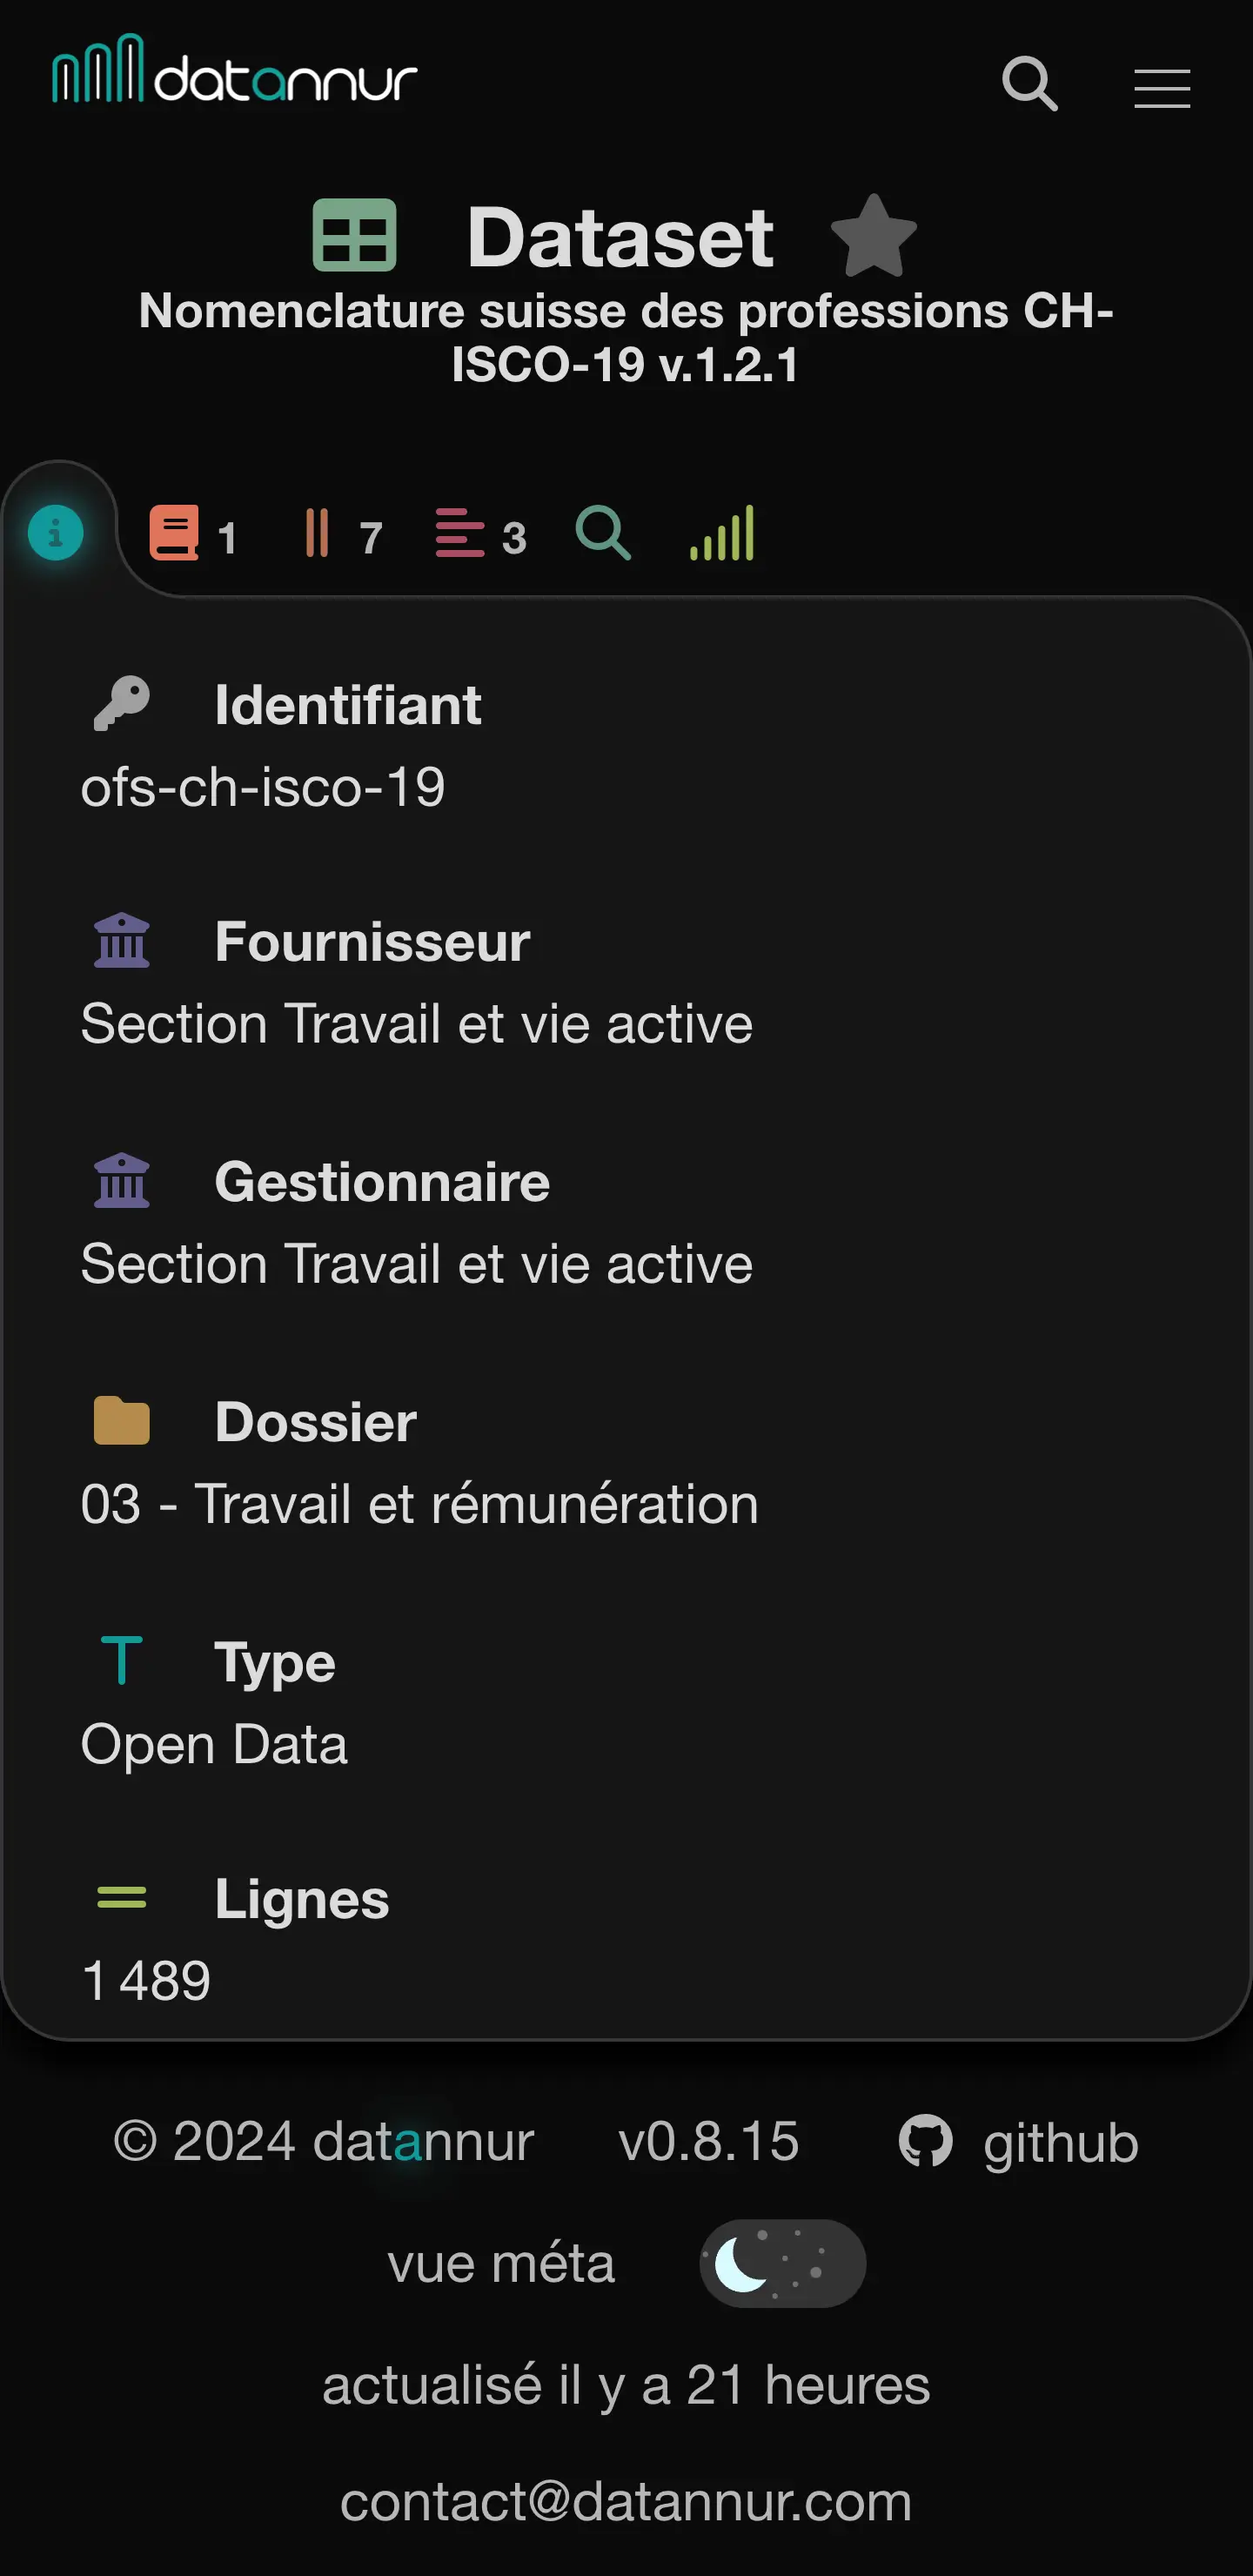
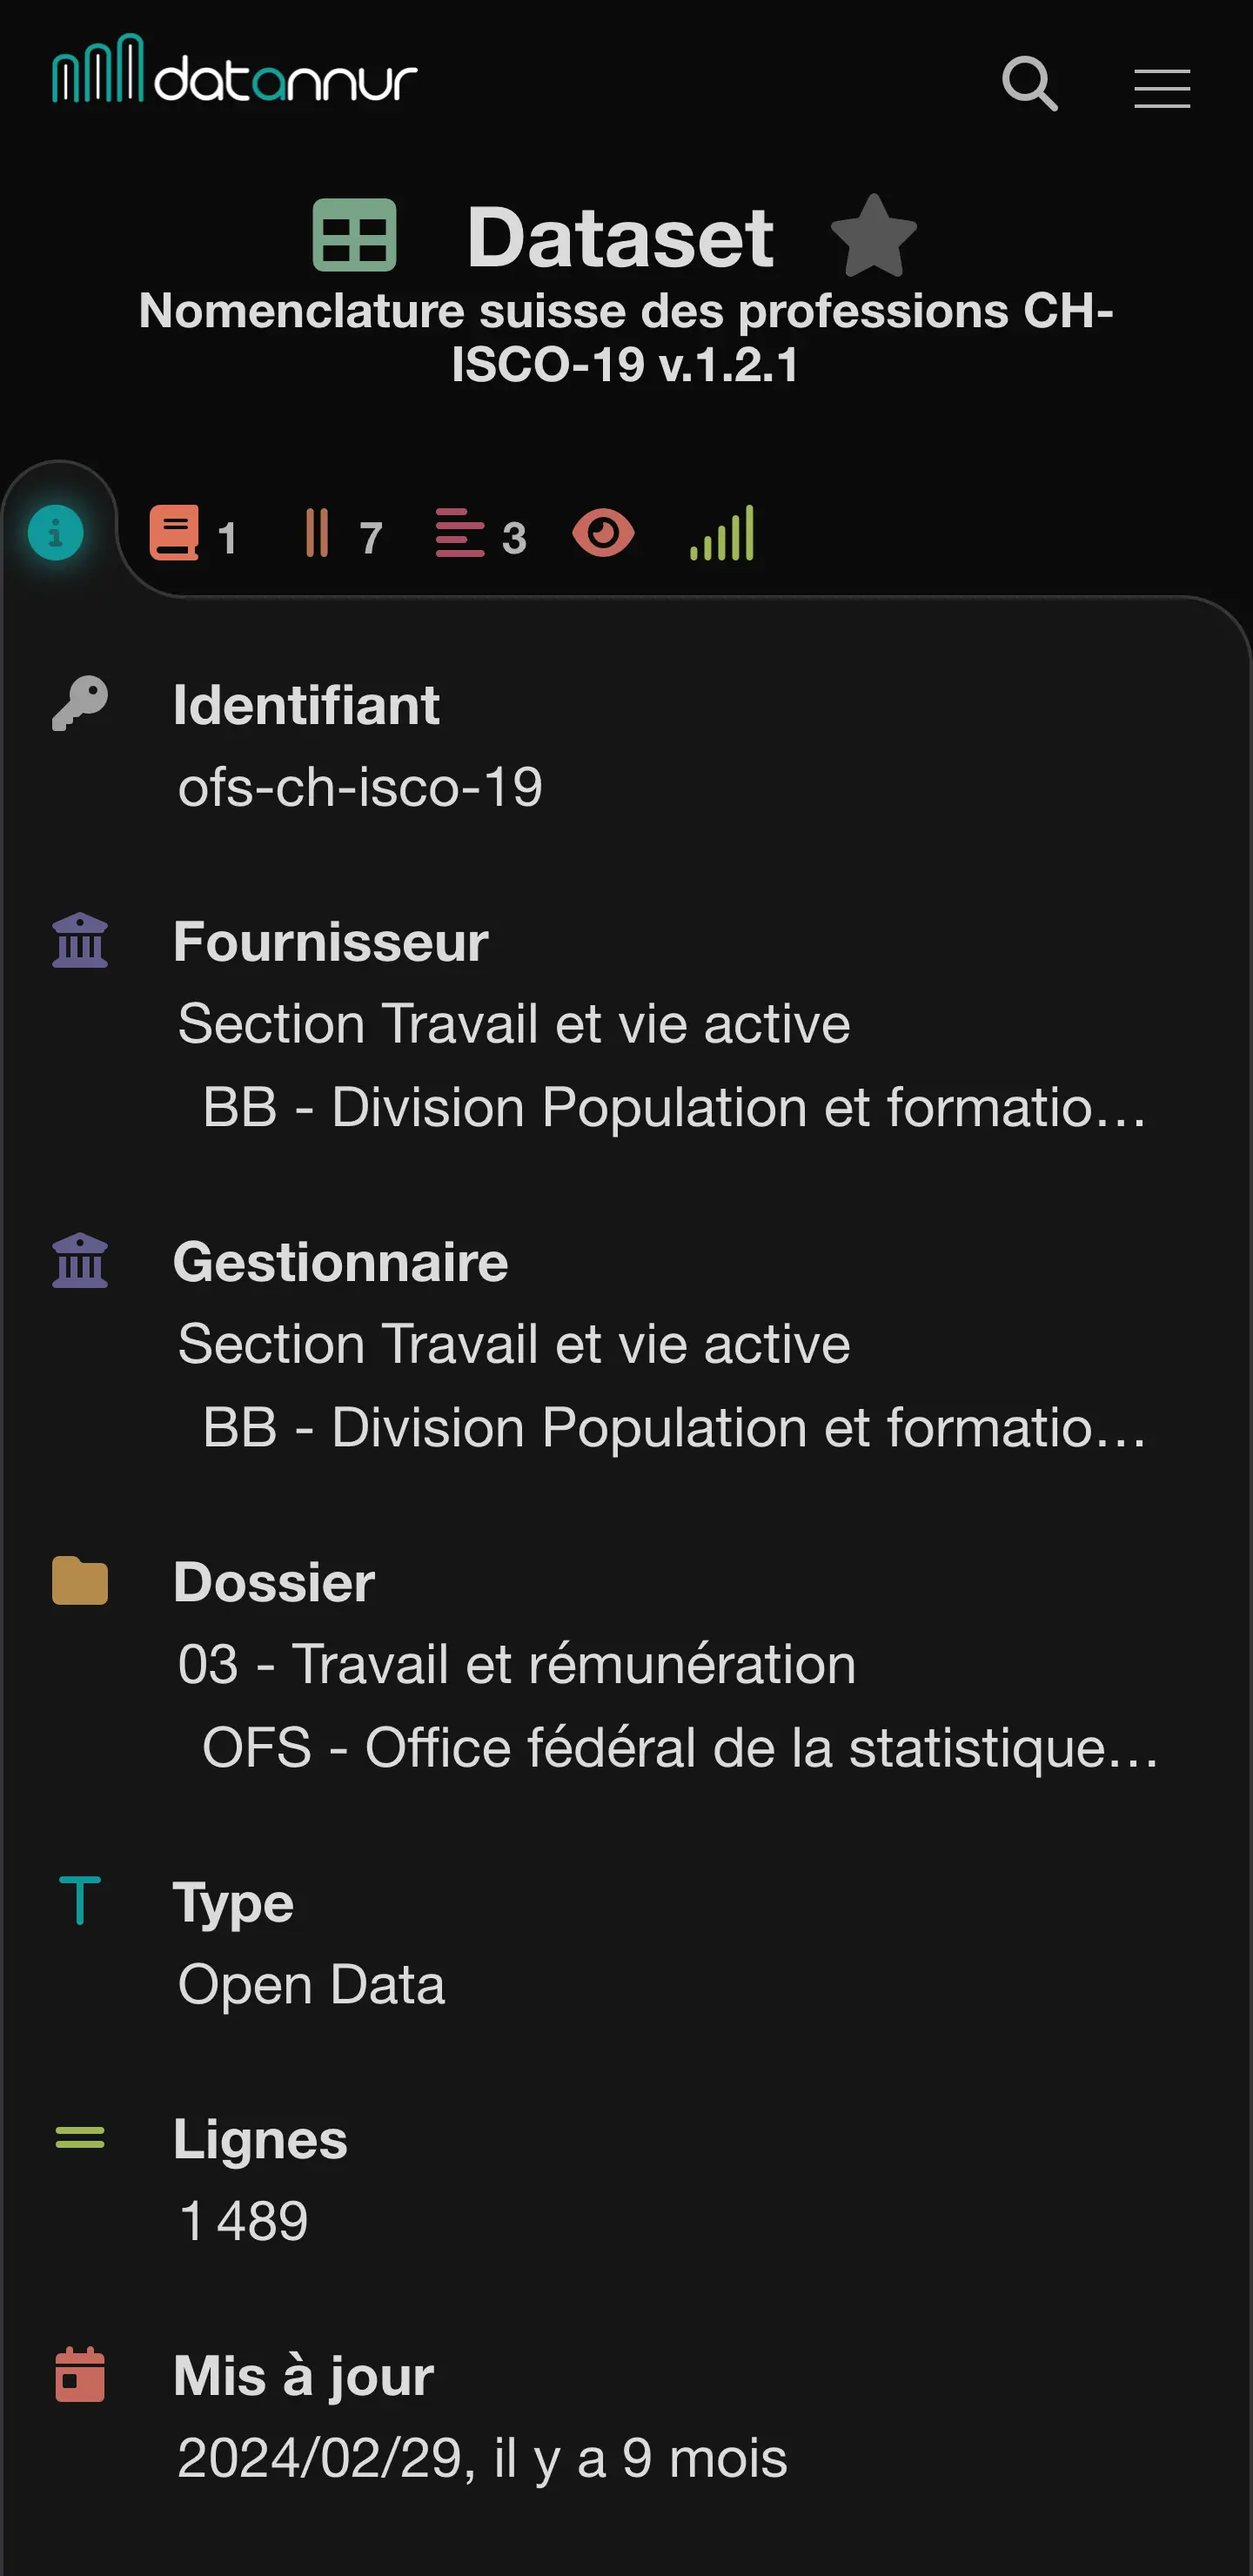
changed : updated all sreenshots

diff --git a/src/markdown/about_page/functionality.md b/src/markdown/about_page/functionality.md
@@ -4,13 +4,13 @@
 
 datannur permet de rechercher et naviguer dans les informations de vos collections de données de façon simple et puissante. Chaque élément (dossier, dataset, variable, …) possède un lien et une page dédiée. Chaque page contient plusieurs onglets, dont le contenu est généralement présenté sous forme de tableau.
 
-![datannur screen_shot](assets/about_page/dossier_sitg_tab_dataset_v4{dark_mode}.webp)
+![datannur screen_shot](assets/about_page/dossier_sitg_tab_dataset{dark_mode}.webp?v=1)
 
 #### Recherche
 
 La barre de recherche et sa page consacrée affichent les éléments dont le nom ou la description contiennent l’expression recherchée. Les recherches les plus récentes s’affichent par défaut.
 
-![datannur screen_shot](assets/about_page/search_page_v3{dark_mode}.webp)
+![datannur screen_shot](assets/about_page/search_page{dark_mode}.webp?v=1)
 
 
 #### Filtre
@@ -37,7 +37,7 @@ Cette structure arborescente est parfaitement restituée dans le catalogue. Pour
 L’arborescence, le filtrage et le tri des tableaux sont utilisables conjointement pour offrir une expérience de recherche et de navigation simple et puissante.
 
 
-![datannur screen_shot](assets/about_page/about_page_diagramm{dark_mode}.webp)
+![datannur screen_shot](assets/about_page/about_page_diagramm{dark_mode}.webp?v=1)
 
 
 ### Information
@@ -45,7 +45,7 @@ L’arborescence, le filtrage et le tri des tableaux sont utilisables conjointem
 Sur chaque page dédiée à un élément du catalogue, l’onglet « A propos » affiche ses différents attributs. Par exemple la description (qui peut être formatée en markdown) et d’autres informations spécifiques, comme la date de mise à jour pour un dataset, ou l’email de contact pour une institution. C’est également dans cet onglet que l’on trouve les éléments contenants ou parents, comme les mots clés, le dossier ou encore le fournisseur et le gestionnaire (institution). Dans les autres onglets, les éléments contenus sont listés (dataset, variable, etc.).
 
 
-![datannur screen_shot](assets/about_page/dataset_list_histo{dark_mode}.webp)
+![datannur screen_shot](assets/about_page/dataset_list_histo{dark_mode}.webp?v=1)
 
 
 #### Doc
@@ -57,7 +57,7 @@ Un élément particulier est la doc (documentation). Il peut s’agir d’un fic
 Un onglet, « Stat », affiche les informations des autres onglets sous forme de résumé statistique au niveau de certains attributs. Par exemple le nombre de variable par dataset, ou encore les mots clés attachés aux dossiers. Pour chaque attribut, un graphique en bar avec totaux et pourcentages est affiché, avec une échelle logarithmique pour les éléments numériques.
 
 
-![datannur screen_shot](assets/about_page/stat_tab{dark_mode}.webp)
+![datannur screen_shot](assets/about_page/stat_tab{dark_mode}.webp?v=1)
 
 
 #### Aperçu des données
@@ -76,9 +76,9 @@ Les données d’utilisation sont stockées directement dans le navigateur. Par 
 
 Tous les éléments peuvent être mis en favoris en cliquant sur l’étoile. Une page permet ensuite de les lister. avec un onglet dédié à chaque type d’élément.
 
-![add_favorite](assets/tuto/add_favorite{dark_mode}.gif?v=1)
+![add_favorite](assets/tuto/add_favorite{dark_mode}.gif?v=2)
 
-![datannur screen_shot](assets/about_page/favorite_page{dark_mode}.webp)
+![datannur screen_shot](assets/about_page/favorite_page{dark_mode}.webp?v=1)
 
 
 #### Personnalisation

diff --git a/src/markdown/about_favorite.md b/src/markdown/about_favorite.md
@@ -2,4 +2,4 @@ Les éléments du catalogue peuvent être mis en favoris en cliquant sur l'étoi
 
 C'est sur cette page qu'ils sont rassemblés.
 
-![add_favorite](assets/tuto/add_favorite{dark_mode}.gif?v=1)
+![add_favorite](assets/tuto/add_favorite{dark_mode}.gif?v=2)

diff --git a/CHANGELOG.md b/CHANGELOG.md
@@ -3,6 +3,7 @@
 ## unreleased
 
 - changed : updated first screenshot of about page fonctionality tab
+- changed : updated all sreenshots
 - fixed : github linguist stats with correct gitattributes
 
 ## 0.9.6 (2024-12-05)
